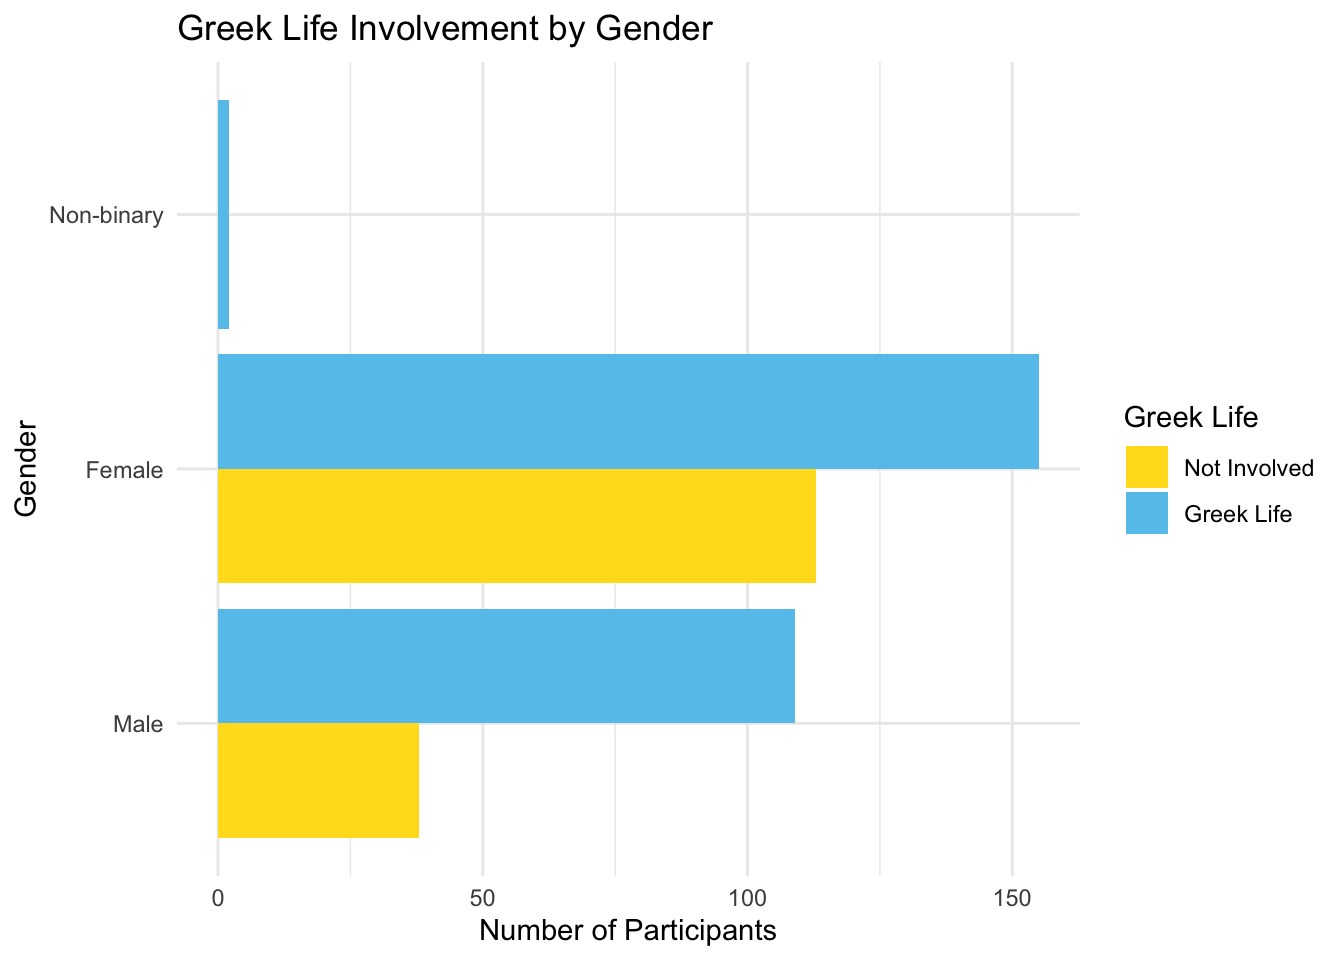
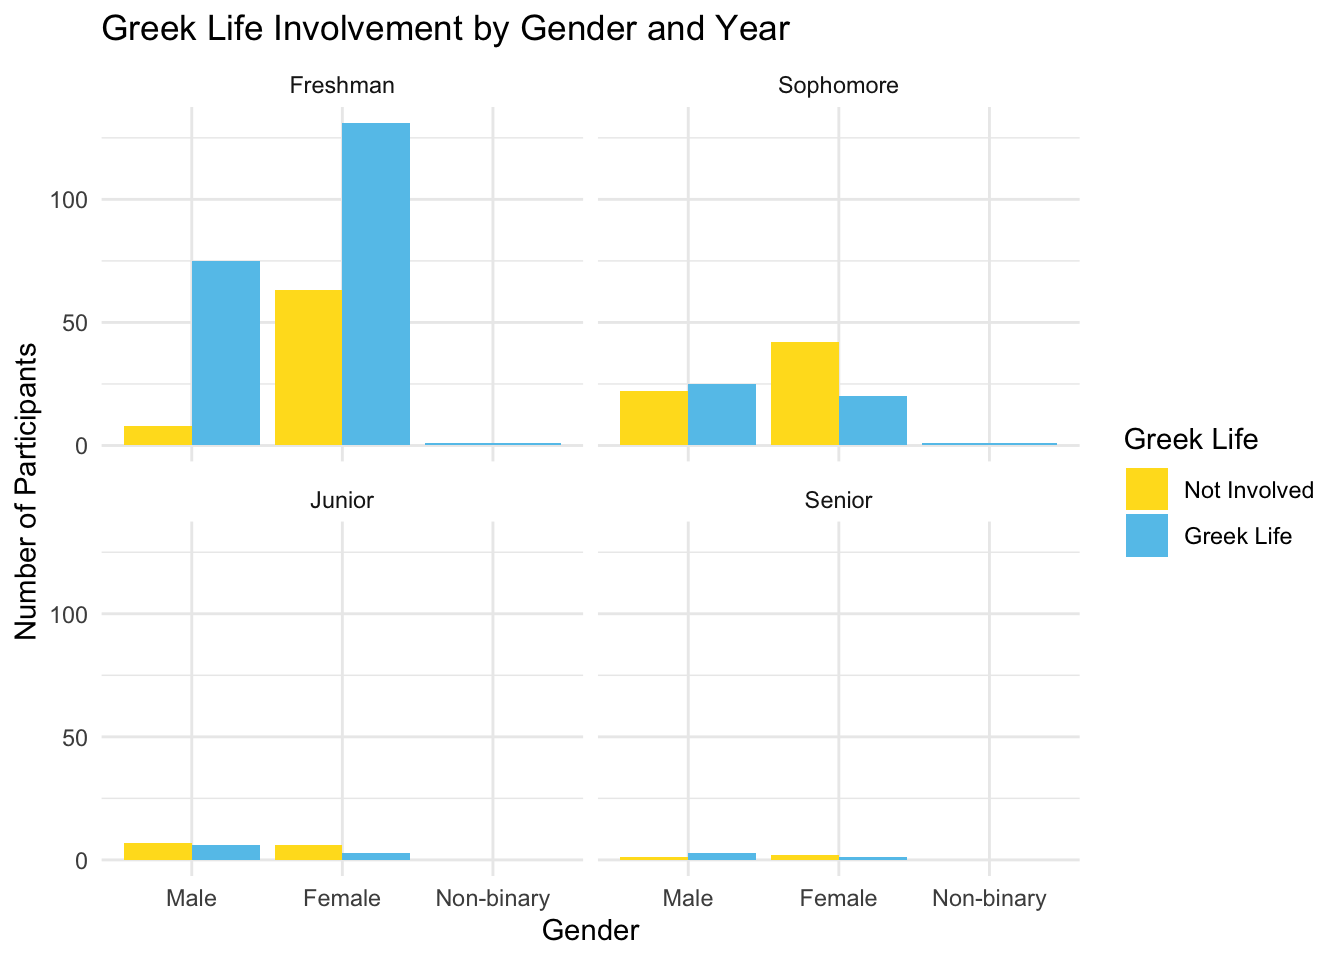
knited again

diff --git a/docs/portfolio3.html b/docs/portfolio3.html
@@ -381,48 +381,6 @@ information</h1>
 study. This portfolio will focus on analyzing the descriptive
 information for each scale and visual representation of the demographic
 information for the participants.</p>
-<pre class="r"><code>##install packages
-##install.packages(c(&quot;tidytext&quot;, &quot;stringr&quot;))
-library(tidytext)
-library(psych)
-library(ggplot2)</code></pre>
-<pre><code>## 
-## Attaching package: &#39;ggplot2&#39;</code></pre>
-<pre><code>## The following objects are masked from &#39;package:psych&#39;:
-## 
-##     %+%, alpha</code></pre>
-<pre class="r"><code>library(ltm)</code></pre>
-<pre><code>## Loading required package: MASS</code></pre>
-<pre><code>## Loading required package: msm</code></pre>
-<pre><code>## Loading required package: polycor</code></pre>
-<pre><code>## 
-## Attaching package: &#39;polycor&#39;</code></pre>
-<pre><code>## The following object is masked from &#39;package:psych&#39;:
-## 
-##     polyserial</code></pre>
-<pre><code>## 
-## Attaching package: &#39;ltm&#39;</code></pre>
-<pre><code>## The following object is masked from &#39;package:psych&#39;:
-## 
-##     factor.scores</code></pre>
-<pre class="r"><code>library(ppcor)
-library(tidyverse)</code></pre>
-<pre><code>## ── Attaching core tidyverse packages ──────────────────────── tidyverse 2.0.0 ──
-## ✔ dplyr     1.1.4     ✔ readr     2.1.5
-## ✔ forcats   1.0.0     ✔ stringr   1.5.1
-## ✔ lubridate 1.9.4     ✔ tibble    3.2.1
-## ✔ purrr     1.0.2     ✔ tidyr     1.3.1</code></pre>
-<pre><code>## ── Conflicts ────────────────────────────────────────── tidyverse_conflicts() ──
-## ✖ ggplot2::%+%()   masks psych::%+%()
-## ✖ ggplot2::alpha() masks psych::alpha()
-## ✖ dplyr::filter()  masks stats::filter()
-## ✖ dplyr::lag()     masks stats::lag()
-## ✖ dplyr::select()  masks MASS::select()
-## ℹ Use the conflicted package (&lt;http://conflicted.r-lib.org/&gt;) to force all conflicts to become errors</code></pre>
-<pre class="r"><code>library(haven)
-library(stringr)
-library(dplyr)
-Thesis_scale &lt;- readRDS(&quot;Thesis_scale.rds&quot;)</code></pre>
 </div>
 <div
 id="step-1-calculating-scales-basic-descriptives-mean-sd-max-and-mix-and-cronbach-alpha"
@@ -444,7 +402,7 @@ cronbach.alpha(bfs_items, standardized = TRUE, CI = TRUE, na.rm = TRUE)</code></
 ## 
 ## Bootstrap 95% CI based on 1000 samples
 ##  2.5% 97.5% 
-## 0.829 0.876</code></pre>
+## 0.829 0.877</code></pre>
 <pre class="r"><code>##Bullshit Frequency scale evasive
 bfse &lt;- c(&quot;BFS_9&quot;, &quot;BFS_10&quot;, &quot;BFS_11&quot;, &quot;BFS_12&quot;)
 Thesis_scale &lt;- Thesis_scale %&gt;%
@@ -460,7 +418,7 @@ cronbach.alpha(bfse_items, standardized = TRUE, CI = TRUE, na.rm = TRUE)</code><
 ## 
 ## Bootstrap 95% CI based on 1000 samples
 ##  2.5% 97.5% 
-## 0.660 0.767</code></pre>
+## 0.662 0.770</code></pre>
 <pre class="r"><code>##Bullshit Frequency scale persuasive
 bfsp &lt;- c(&quot;BFS_1&quot;, &quot;BFS_2&quot;, &quot;BFS_3&quot;, &quot;BFS_4&quot;, &quot;BFS_5&quot;, &quot;BFS_6&quot;, &quot;BFS_7&quot;, &quot;BFS_8&quot;)
 Thesis_scale &lt;- Thesis_scale %&gt;%
@@ -476,7 +434,7 @@ cronbach.alpha(bfsp_items, standardized = TRUE, CI = TRUE, na.rm = TRUE)</code><
 ## 
 ## Bootstrap 95% CI based on 1000 samples
 ##  2.5% 97.5% 
-## 0.832 0.882</code></pre>
+## 0.835 0.883</code></pre>
 <pre class="r"><code>##Bullshit Propensity scale 
 bps &lt;- c(&quot;BPS_1&quot;, &quot;BPS_2&quot;, &quot;BPS_3&quot;, &quot;BPS_4&quot;, &quot;BPS_5&quot;, &quot;BPS_6&quot;, &quot;BPS_7&quot;, &quot;BPS_8&quot;, &quot;BPS_9&quot;, &quot;BPS_10&quot;, &quot;BPS_11&quot;, &quot;BPS_12&quot;)
 Thesis_scale &lt;- Thesis_scale %&gt;%
@@ -492,7 +450,7 @@ cronbach.alpha(bps_items, standardized = TRUE, CI = TRUE, na.rm = TRUE)</code></
 ## 
 ## Bootstrap 95% CI based on 1000 samples
 ##  2.5% 97.5% 
-## 0.715 0.791</code></pre>
+## 0.716 0.789</code></pre>
 <pre class="r"><code>##Lying in Everyday Situations Scale
 lie &lt;- c(&quot;lies1&quot;, &quot;lies2&quot;, &quot;lies3&quot;, &quot;lies4&quot;, &quot;lies5&quot;, &quot;lies6&quot;, &quot;lies7&quot;, &quot;lies8&quot;, &quot;lies9&quot;, &quot;lies10&quot;, &quot;lies11&quot;, &quot;lies12&quot;, &quot;lies13&quot;, &quot;lies14&quot;)
 Thesis_scale &lt;- Thesis_scale %&gt;%
@@ -524,7 +482,7 @@ cronbach.alpha(sdtnarc_items, standardized = TRUE, CI = TRUE, na.rm = TRUE)</cod
 ## 
 ## Bootstrap 95% CI based on 1000 samples
 ##  2.5% 97.5% 
-## 0.657 0.752</code></pre>
+## 0.658 0.751</code></pre>
 <pre class="r"><code>##Short_dark_triad Machiavellianism
 sdtmach &lt;- c(&quot;DTS_MACH_1&quot;, &quot;DTS_MACH_2&quot;, &quot;DTS_MACH_3&quot;, &quot;DTS_MACH_4&quot;, &quot;DTS_MACH_5&quot;, &quot;DTS_MACH_6&quot;, &quot;DTS_MACH_7&quot;, &quot;DTS_MACH_8&quot;, &quot;DTS_MACH_9&quot;)
 Thesis_scale &lt;- Thesis_scale %&gt;%
@@ -540,7 +498,7 @@ cronbach.alpha(sdtmach_items, standardized = TRUE, CI = TRUE, na.rm = TRUE)</cod
 ## 
 ## Bootstrap 95% CI based on 1000 samples
 ##  2.5% 97.5% 
-## 0.756 0.820</code></pre>
+## 0.756 0.821</code></pre>
 <pre class="r"><code>##Short_dark_triad Psychopathy
 sdtpsych &lt;- c(&quot;DTS_Path_1&quot;, &quot;DTS_Path_2&quot;, &quot;DTS_Path_3&quot;, &quot;DTS_Path_4&quot;, &quot;DTS_Path_5&quot;, &quot;DTS_Path_6&quot;, &quot;DTS_Path_7&quot;, &quot;DTS_Path_8&quot;, &quot;DTS_Path_9&quot;)
 Thesis_scale &lt;- Thesis_scale %&gt;%
@@ -556,7 +514,7 @@ cronbach.alpha(sdtpsych_items, standardized = TRUE, CI = TRUE, na.rm = TRUE)</co
 ## 
 ## Bootstrap 95% CI based on 1000 samples
 ##  2.5% 97.5% 
-## 0.718 0.793</code></pre>
+##  0.72  0.79</code></pre>
 <pre class="r"><code>##Narcissistic Personality Inventory
 narc &lt;- c(&quot;NPI_1&quot;, &quot;NPI_2&quot;, &quot;NPI_3&quot;, &quot;NPI_4&quot;, &quot;NPI_5&quot;, &quot;NPI_6&quot;, &quot;NPI_7&quot;, &quot;NPI_8&quot;, &quot;NPI_9&quot;, &quot;NPI_10&quot;, &quot;NPI_11&quot;, &quot;NPI_12&quot;, &quot;NPI_13&quot;, &quot;NPI_14&quot;, &quot;NPI_15&quot;, &quot;NPI_16&quot;)
 Thesis_scale &lt;- Thesis_scale %&gt;%
@@ -572,7 +530,7 @@ cronbach.alpha(narc_items, standardized = TRUE, CI = TRUE, na.rm = TRUE)</code><
 ## 
 ## Bootstrap 95% CI based on 1000 samples
 ##  2.5% 97.5% 
-## 0.703 0.782</code></pre>
+## 0.705 0.785</code></pre>
 <pre class="r"><code>##Machiavellianism Personality scale
 mach &lt;- c(&quot;MPS_1&quot;, &quot;MPS_2&quot;, &quot;MPS_3&quot;, &quot;MPS_4&quot;, &quot;MPS_5&quot;, &quot;MPS_6&quot;, &quot;MPS_7&quot;, &quot;MPS_8&quot;, &quot;MPS_9&quot;, &quot;MPS_10&quot;, &quot;MPS_11&quot;, &quot;MPS_12&quot;, &quot;MPS_13&quot;, &quot;MPS_14&quot;, &quot;MPS_15&quot;, &quot;MPS_16&quot;)
 Thesis_scale &lt;- Thesis_scale %&gt;%
@@ -588,7 +546,7 @@ cronbach.alpha(mach_items, standardized = TRUE, CI = TRUE, na.rm = TRUE)</code><
 ## 
 ## Bootstrap 95% CI based on 1000 samples
 ##  2.5% 97.5% 
-## 0.812 0.859</code></pre>
+## 0.811 0.858</code></pre>
 <pre class="r"><code>##Levenson Self-Report Psychopathy Scale
 psycho &lt;- c(&quot;LSRP_PPS_1&quot;, &quot;LSRP_PPS_2&quot;, &quot;LSRP_PPS_3&quot;, &quot;LSRP_PPS_4&quot;, &quot;LSRP_PPS_5&quot;, &quot;LSRP_PPS_6&quot;, &quot;LSRP_PPS_7&quot;, &quot;LSRP_PPS_8&quot;, &quot;LSRP_PPS_9&quot;, &quot;LSRP_PPS_10&quot;, &quot;LSRP_PPS_11&quot;, &quot;LSRP_PPS_12&quot;, &quot;LSRP_PPS_13&quot;, &quot;LSRP_PPS_14&quot;, &quot;LSRP_PPS_15&quot;, &quot;LSRP_PPS_16&quot;, &quot;LSRP_SPS_1&quot;, &quot;LSRP_SPS_2&quot;, &quot;LSRP_SPS_3&quot;, &quot;LSRP_SPS_4&quot;, &quot;LSRP_SPS_5&quot;, &quot;LSRP_SPS_6&quot;, &quot;LSRP_SPS_7&quot;, &quot;LSRP_SPS_8&quot;, &quot;LSRP_SPS_9&quot;, &quot;LSRP_SPS_10&quot;)
 Thesis_scale &lt;- Thesis_scale %&gt;%
@@ -604,7 +562,7 @@ cronbach.alpha(psycho_items, standardized = TRUE, CI = TRUE, na.rm = TRUE)</code
 ## 
 ## Bootstrap 95% CI based on 1000 samples
 ##  2.5% 97.5% 
-## 0.842 0.876</code></pre>
+## 0.843 0.877</code></pre>
 <pre class="r"><code>##primary factor of psychopathy scale
 psychopri &lt;- c(&quot;LSRP_PPS_1&quot;, &quot;LSRP_PPS_2&quot;, &quot;LSRP_PPS_3&quot;, &quot;LSRP_PPS_4&quot;, &quot;LSRP_PPS_5&quot;, 
                     &quot;LSRP_PPS_6&quot;, &quot;LSRP_PPS_7&quot;, &quot;LSRP_PPS_8&quot;, &quot;LSRP_PPS_9&quot;, &quot;LSRP_PPS_10&quot;, 
@@ -640,7 +598,7 @@ cronbach.alpha(psychosec_items, standardized = TRUE, CI = TRUE, na.rm = TRUE)</c
 ## 
 ## Bootstrap 95% CI based on 1000 samples
 ##  2.5% 97.5% 
-## 0.727 0.793</code></pre>
+## 0.722 0.796</code></pre>
 <pre class="r"><code>##Self-esteem (Rosenberg)
 se &lt;- c(&quot;self_esteem_1&quot;, &quot;self_esteem_2&quot;, &quot;self_esteem_3&quot;, &quot;self_esteem_4&quot;, &quot;self_esteem_5&quot;, 
                      &quot;self_esteem_6&quot;, &quot;self_esteem_7&quot;, &quot;self_esteem_8&quot;, &quot;self_esteem_9&quot;, &quot;self_esteem_10&quot;)
@@ -657,7 +615,7 @@ cronbach.alpha(se_items, standardized = TRUE, CI = TRUE, na.rm = TRUE)</code></p
 ## 
 ## Bootstrap 95% CI based on 1000 samples
 ##  2.5% 97.5% 
-## 0.885 0.915</code></pre>
+## 0.884 0.917</code></pre>
 <pre class="r"><code>##HEXACO
 ##Honesty_humility
 hon &lt;- c(&quot;hex6&quot;, &quot;hex12&quot;, &quot;hex18&quot;, &quot;hex24&quot;, &quot;hex30&quot;, &quot;hex36&quot;, &quot;hex42&quot;, &quot;hex48&quot;, &quot;hex54&quot;, &quot;hex60&quot;)
@@ -674,7 +632,7 @@ cronbach.alpha(hon_items, standardized = TRUE, CI = TRUE, na.rm = TRUE)</code></
 ## 
 ## Bootstrap 95% CI based on 1000 samples
 ##  2.5% 97.5% 
-## 0.441 0.591</code></pre>
+## 0.444 0.584</code></pre>
 <pre class="r"><code>##Emotionality
 emo &lt;- c(&quot;hex5&quot;, &quot;hex11&quot;, &quot;hex17&quot;, &quot;hex23&quot;, &quot;hex29&quot;, &quot;hex35&quot;, &quot;hex41&quot;, &quot;hex47&quot;, &quot;hex53&quot;, &quot;hex59&quot;)
 Thesis_scale &lt;- Thesis_scale %&gt;%
@@ -690,7 +648,7 @@ cronbach.alpha(emo_items, standardized = TRUE, CI = TRUE, na.rm = TRUE)</code></
 ## 
 ## Bootstrap 95% CI based on 1000 samples
 ##  2.5% 97.5% 
-## 0.764 0.830</code></pre>
+## 0.766 0.831</code></pre>
 <pre class="r"><code>##Extraversion
 extra &lt;- c(&quot;hex4&quot;, &quot;hex10&quot;, &quot;hex16&quot;, &quot;hex22&quot;, &quot;hex28&quot;, &quot;hex34&quot;, &quot;hex40&quot;, &quot;hex46&quot;, &quot;hex52&quot;, &quot;hex58&quot;)
 Thesis_scale &lt;- Thesis_scale %&gt;%
@@ -706,7 +664,7 @@ cronbach.alpha(extra_items, standardized = TRUE, CI = TRUE, na.rm = TRUE)</code>
 ## 
 ## Bootstrap 95% CI based on 1000 samples
 ##  2.5% 97.5% 
-## 0.767 0.828</code></pre>
+## 0.769 0.829</code></pre>
 <pre class="r"><code>##Agreeableness
 agree &lt;- c(&quot;hex3&quot;, &quot;hex9&quot;, &quot;hex15&quot;, &quot;hex21&quot;, &quot;hex27&quot;, &quot;hex33&quot;, &quot;hex39&quot;, &quot;hex45&quot;, &quot;hex51&quot;, &quot;hex57&quot;)
 Thesis_scale &lt;- Thesis_scale %&gt;%
@@ -722,7 +680,7 @@ cronbach.alpha(agree_items, standardized = TRUE, CI = TRUE, na.rm = TRUE)</code>
 ## 
 ## Bootstrap 95% CI based on 1000 samples
 ##  2.5% 97.5% 
-## 0.746 0.815</code></pre>
+## 0.745 0.813</code></pre>
 <pre class="r"><code>##CONSCIENTIOUSNESS
 cons &lt;- c(&quot;hex2&quot;, &quot;hex8&quot;, &quot;hex14&quot;, &quot;hex20&quot;, &quot;hex26&quot;, &quot;hex32&quot;, &quot;hex38&quot;, &quot;hex44&quot;, &quot;hex50&quot;, &quot;hex56&quot;)
 Thesis_scale &lt;- Thesis_scale %&gt;%
@@ -738,7 +696,7 @@ cronbach.alpha(cons_items, standardized = TRUE, CI = TRUE, na.rm = TRUE)</code><
 ## 
 ## Bootstrap 95% CI based on 1000 samples
 ##  2.5% 97.5% 
-## 0.772 0.828</code></pre>
+## 0.773 0.827</code></pre>
 <pre class="r"><code>##Openness to Experience
 open &lt;- c(&quot;hex1&quot;, &quot;hex7&quot;, &quot;hex13&quot;, &quot;hex19&quot;, &quot;hex25&quot;, &quot;hex31&quot;, &quot;hex37&quot;, &quot;hex43&quot;, &quot;hex49&quot;, &quot;hex55&quot;)
 Thesis_scale &lt;- Thesis_scale %&gt;%
@@ -754,7 +712,7 @@ cronbach.alpha(open_items, standardized = TRUE, CI = TRUE, na.rm = TRUE)</code><
 ## 
 ## Bootstrap 95% CI based on 1000 samples
 ##  2.5% 97.5% 
-## 0.619 0.726</code></pre>
+## 0.610 0.725</code></pre>
 <pre class="r"><code>##Intellectual Humility Scale
 ihs &lt;- c(&quot;IHS_1&quot;, &quot;IHS_2&quot;, &quot;IHS_3&quot;, &quot;IHS_4&quot;, &quot;IHS_5&quot;, &quot;IHS_6&quot;)
 Thesis_scale &lt;- Thesis_scale %&gt;%
@@ -770,7 +728,7 @@ cronbach.alpha(ihs_items, standardized = TRUE, CI = TRUE, na.rm = TRUE)</code></
 ## 
 ## Bootstrap 95% CI based on 1000 samples
 ##  2.5% 97.5% 
-## 0.346 0.533</code></pre>
+## 0.348 0.533</code></pre>
 <pre class="r"><code>##Need for Closure
 nclos &lt;- c(&quot;nclos1&quot;, &quot;nclos2&quot;, &quot;nclos3&quot;, &quot;nclos4&quot;, &quot;nclos5&quot;, &quot;nclos6&quot;, &quot;nclos7&quot;, &quot;nclos8&quot;, &quot;nclos9&quot;, &quot;nclos10&quot;, 
                                                  &quot;nclos11&quot;, &quot;nclos12&quot;, &quot;nclos13&quot;, &quot;nclos14&quot;, &quot;nclos15&quot;, 
@@ -793,7 +751,7 @@ cronbach.alpha(nclos_items, standardized = TRUE, CI = TRUE, na.rm = TRUE)</code>
 ## 
 ## Bootstrap 95% CI based on 1000 samples
 ##  2.5% 97.5% 
-## 0.814 0.859</code></pre>
+## 0.811 0.857</code></pre>
 <pre class="r"><code>##Need for Cognition
 ncog &lt;- c(&quot;ncog7&quot;, &quot;ncog8&quot;, &quot;ncog9&quot;, &quot;ncog10&quot;, &quot;ncog11&quot;, &quot;ncog12&quot;, 
                                                &quot;ncog13&quot;, &quot;ncog14&quot;, &quot;ncog15&quot;, &quot;ncog16&quot;, &quot;ncog17&quot;, &quot;ncog18&quot;)
@@ -810,7 +768,7 @@ cronbach.alpha(ncog_items, standardized = TRUE, CI = TRUE, na.rm = TRUE)</code><
 ## 
 ## Bootstrap 95% CI based on 1000 samples
 ##  2.5% 97.5% 
-## 0.669 0.765</code></pre>
+## 0.667 0.760</code></pre>
 <pre class="r"><code>##Actively Open Thinking Style
 openTS &lt;- c(&quot;A4CTS_1&quot;, &quot;A4CTS_2&quot;, &quot;A4CTS_3&quot;, &quot;A4CTS_4&quot;, &quot;A4CTS_5&quot;, &quot;A4CTS_6&quot;)
 Thesis_scale &lt;- Thesis_scale %&gt;%
@@ -826,7 +784,7 @@ cronbach.alpha(openTS_items, standardized = TRUE, CI = TRUE, na.rm = TRUE)</code
 ## 
 ## Bootstrap 95% CI based on 1000 samples
 ##  2.5% 97.5% 
-## 0.804 0.866</code></pre>
+## 0.805 0.866</code></pre>
 <pre class="r"><code>##Close-minded Thinking Style
 closeTS &lt;- c(&quot;A4CTS_7&quot;, &quot;A4CTS_8&quot;, &quot;A4CTS_9&quot;, &quot;A4CTS_10&quot;, &quot;A4CTS_11&quot;, &quot;A4CTS_12&quot;)
 Thesis_scale &lt;- Thesis_scale %&gt;%
@@ -842,7 +800,7 @@ cronbach.alpha(closeTS_items, standardized = TRUE, CI = TRUE, na.rm = TRUE)</cod
 ## 
 ## Bootstrap 95% CI based on 1000 samples
 ##  2.5% 97.5% 
-## 0.791 0.856</code></pre>
+## 0.792 0.854</code></pre>
 <pre class="r"><code>##prefer intuitive Thinking Style
 intuitiveTS &lt;- c(&quot;A4CTS_13&quot;, &quot;A4CTS_14&quot;, &quot;A4CTS_15&quot;, &quot;A4CTS_16&quot;, &quot;A4CTS_17&quot;, &quot;A4CTS_18&quot;)
 Thesis_scale &lt;- Thesis_scale %&gt;%
@@ -858,7 +816,7 @@ cronbach.alpha(intuitiveTS_items, standardized = TRUE, CI = TRUE, na.rm = TRUE)<
 ## 
 ## Bootstrap 95% CI based on 1000 samples
 ##  2.5% 97.5% 
-## 0.849 0.893</code></pre>
+## 0.846 0.893</code></pre>
 <pre class="r"><code>##prefer effortful Thinking Style
 effortTS &lt;- c(&quot;A4CTS_19&quot;, &quot;A4CTS_20&quot;, &quot;A4CTS_21&quot;, &quot;A4CTS_22&quot;, &quot;A4CTS_23&quot;, &quot;A4CTS_24&quot;)
 Thesis_scale &lt;- Thesis_scale %&gt;%
@@ -874,7 +832,7 @@ cronbach.alpha(effortTS_items, standardized = TRUE, CI = TRUE, na.rm = TRUE)</co
 ## 
 ## Bootstrap 95% CI based on 1000 samples
 ##  2.5% 97.5% 
-## 0.796 0.856</code></pre>
+## 0.797 0.858</code></pre>
 <pre class="r"><code>##Actively Open-Minded Thinking about Evidence Scale 
 activeopen &lt;- c(&quot;aopen1&quot;, &quot;aopen2&quot;, &quot;aopen3&quot;, &quot;aopen4&quot;, &quot;aopen5&quot;, &quot;aopen6&quot;, &quot;aopen7&quot;, &quot;aopen8&quot;)
 Thesis_scale &lt;- Thesis_scale %&gt;%
@@ -890,7 +848,7 @@ cronbach.alpha(activeopen_items, standardized = TRUE, CI = TRUE, na.rm = TRUE)</
 ## 
 ## Bootstrap 95% CI based on 1000 samples
 ##  2.5% 97.5% 
-## 0.709 0.778</code></pre>
+## 0.709 0.782</code></pre>
 <pre class="r"><code>##Faith in Intuition Scale
 fi &lt;- c(&quot;fi1&quot;, &quot;fi2&quot;, &quot;fi3&quot;, &quot;fi4&quot;, &quot;fi5&quot;, &quot;fi6&quot;, &quot;fi7&quot;, &quot;fi8&quot;, &quot;fi9&quot;, &quot;fi10&quot;, &quot;fi11&quot;, &quot;fi12&quot;)
 Thesis_scale &lt;- Thesis_scale %&gt;%
@@ -906,9 +864,9 @@ cronbach.alpha(fi_items, standardized = TRUE, CI = TRUE, na.rm = TRUE)</code></p
 ## 
 ## Bootstrap 95% CI based on 1000 samples
 ##  2.5% 97.5% 
-## 0.837 0.880</code></pre>
+## 0.838 0.879</code></pre>
 <pre class="r"><code>## The descriptives information for each scales
-psych::describe(Thesis_scale %&gt;% select(BFS_score, BFSe_score, BFSp_score, BPS_score, LIE_score, sdtnarc_score, sdtmach_score, sdtpsych_score, narc_score, mach_score, psycho_score, psychopri_score, psychosec_score, se_score, hon_score, emo_score, extra_score, agree_score, cons_score, open_score, ihs_score, nclos_score, ncog_score, openTS_score, closeTS_score, intuitiveTS_score, effortTS_score, activeopen_score, fi_score, crt_score, word_score, NS_score))</code></pre>
+psych::describe(Thesis_scale %&gt;% select(BFS_score, BFSe_score, BFSp_score, BPS_score, LIE_score, sdtnarc_score, sdtmach_score, sdtpsych_score, narc_score, mach_score, psycho_score, psychopri_score, psychosec_score, se_score, hon_score, emo_score, extra_score, agree_score, cons_score, open_score, ihs_score, nclos_score, ncog_score, openTS_score, closeTS_score, intuitiveTS_score, effortTS_score, activeopen_score, fi_score, crt_score, word_score, ns_score))</code></pre>
 <pre><code>##                   vars   n mean   sd median trimmed  mad  min  max range  skew
 ## BFS_score            1 417 3.11 0.58   3.08    3.13 0.49 1.08 4.83  3.75 -0.21
 ## BFSe_score           2 417 3.18 0.69   3.25    3.20 0.74 1.00 5.00  4.00 -0.29
@@ -941,7 +899,7 @@ psych::describe(Thesis_scale %&gt;% select(BFS_score, BFSe_score, BFSp_score, BP
 ## fi_score            29 417 3.76 0.60   3.75    3.75 0.62 1.75 5.00  3.25  0.04
 ## crt_score           30 391 0.34 0.36   0.33    0.30 0.49 0.00 1.00  1.00  0.59
 ## word_score          31 416 0.58 0.20   0.60    0.60 0.15 0.00 1.00  1.00 -0.77
-## NS_score            32 411 0.85 0.19   0.90    0.89 0.15 0.00 1.00  1.00 -1.80
+## ns_score            32 411 0.85 0.19   0.90    0.89 0.15 0.00 1.00  1.00 -1.80
 ##                   kurtosis   se
 ## BFS_score             0.38 0.03
 ## BFSe_score            0.27 0.03
@@ -974,7 +932,7 @@ psych::describe(Thesis_scale %&gt;% select(BFS_score, BFSe_score, BFSp_score, BP
 ## fi_score             -0.20 0.03
 ## crt_score            -1.01 0.02
 ## word_score            0.31 0.01
-## NS_score              3.51 0.01</code></pre>
+## ns_score              3.51 0.01</code></pre>
 </div>
 <div id="step-2-demographic-information" class="section level2">
 <h2>Step 2: Demographic information</h2>
@@ -1049,7 +1007,7 @@ ggplot(gender_greek, aes(x = gender_label, y = n, fill = greek)) +
   scale_fill_manual(values = c(&quot;Not Involved&quot; = &quot;#FFDE21&quot;, &quot;Greek Life&quot; = &quot;#64c5eb&quot;)) +
   theme_minimal() +
   coord_flip()</code></pre>
-<p><img src="portfolio3_files/figure-html/unnamed-chunk-2-1.png" width="672" /></p>
+<p><img src="portfolio3_files/figure-html/unnamed-chunk-1-1.png" width="672" /></p>
 <p>Looking at the graph, I can tell that most of the students in the
 study are involved in greek life. In addition, the number of male
 students involved in a fraternity is more than twice the number of male
@@ -1071,7 +1029,7 @@ ggplot(gender_year_greek, aes(x = gender_label, y = n, fill = greek)) +
        fill = &quot;Greek Life&quot;) +
   scale_fill_manual(values = c(&quot;Not Involved&quot; = &quot;#FFDE21&quot;, &quot;Greek Life&quot; = &quot;#64c5eb&quot;)) +
   theme_minimal()</code></pre>
-<p><img src="portfolio3_files/figure-html/unnamed-chunk-3-1.png" width="672" /></p>
+<p><img src="portfolio3_files/figure-html/unnamed-chunk-2-1.png" width="672" /></p>
 <p>We can see that for both female and male freshman students at Wake,
 most of them are members of a sorority or a fraternity. However, for
 sophomore, junior, and senior, the difference between the number of
@@ -1079,7 +1037,8 @@ students that are involved or not involved in greek life is smaller.
 Sophomore male students are slightly more likely to be involved in greek
 life, while there is still a significantly larger proportion of female
 students involving in greek life.</p>
-<pre class="r"><code>saveRDS(Thesis_scale, file = &quot;Thesis_scale.rds&quot;)</code></pre>
+<pre class="r"><code>saveRDS(Thesis_scale, file = &quot;Thesis_scale.rds&quot;)
+write_sav(Thesis_scale, &quot;Thesis_scale.sav&quot;)</code></pre>
 </div>
 
 
